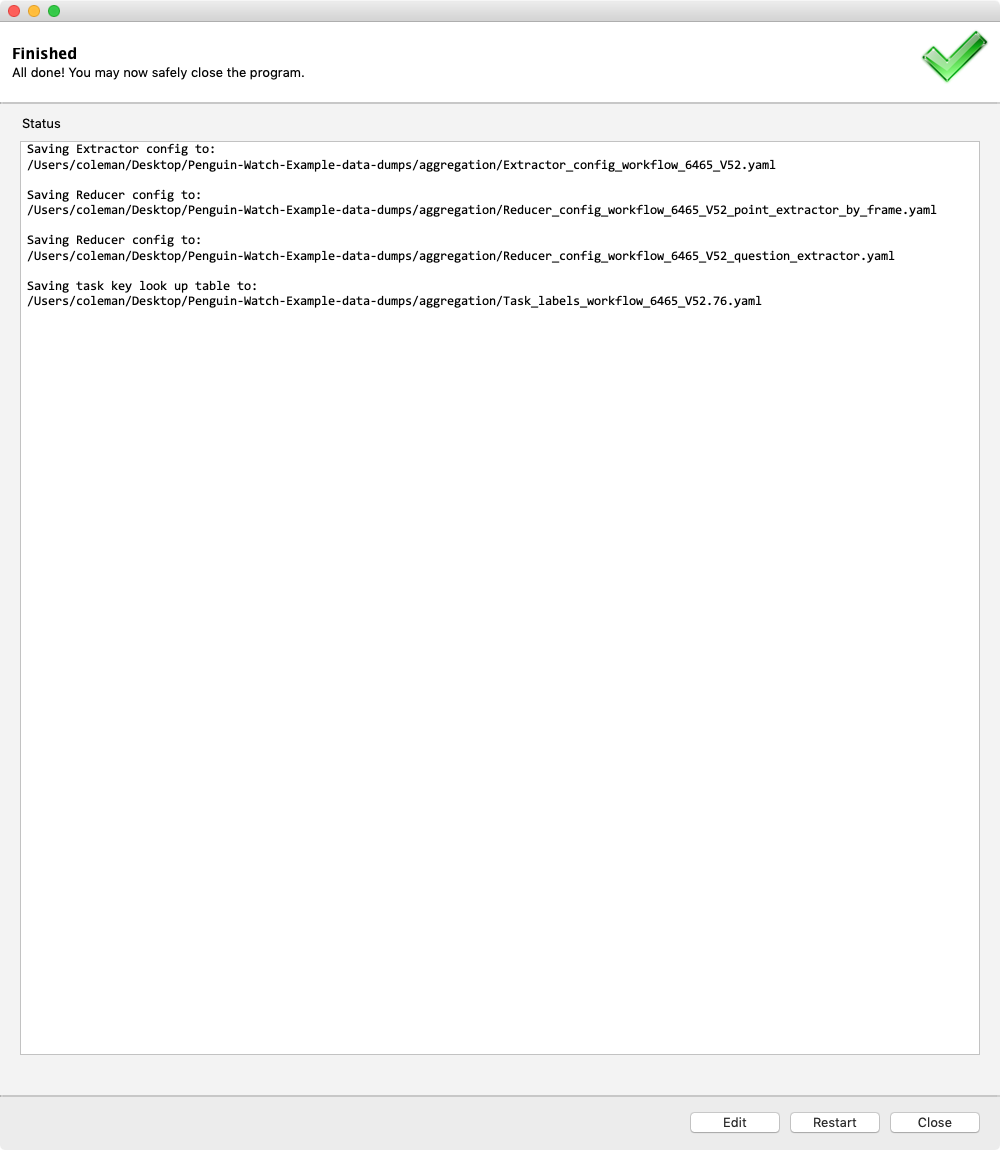
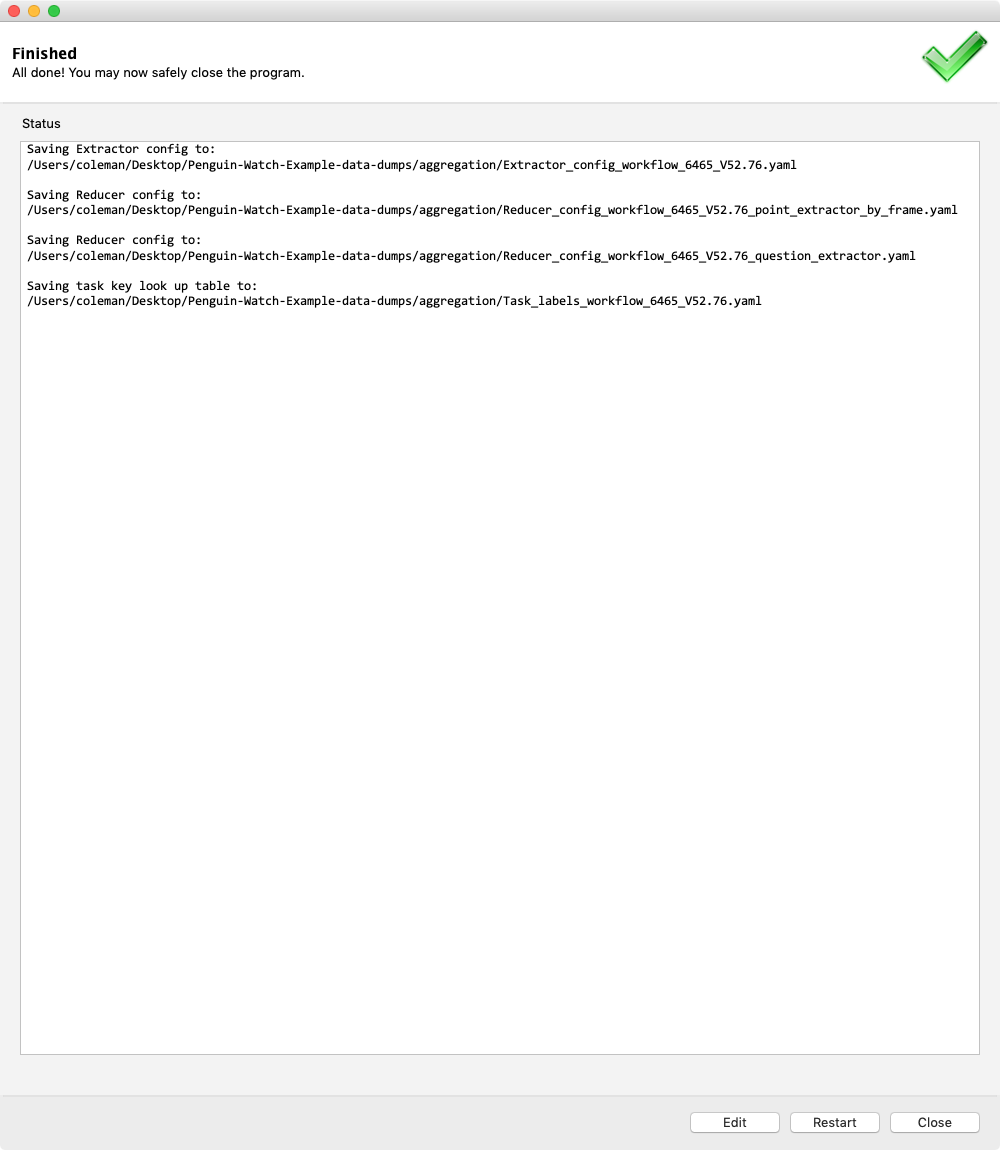
Update workflow auto-config script for new data export format
The `workflow_contents` csv files are no longer available and the 
`strings` column from it has been moved to the workflow export file.  
This stream-lines much of the configuration code since it only has to 
deal with one csv file.

The documentation and examples have been updated to reflect these 
changes.

Changed region(s): [[0.744, 0.1826, 0.899, 0.2435], [0.744, 0.1217, 0.806, 0.1522]]

diff --git a/panoptes_aggregation/scripts/config_workflow_panoptes.py b/panoptes_aggregation/scripts/config_workflow_panoptes.py
@@ -21,10 +21,8 @@ def config_workflow(
             workflow_csv,
             workflow_id,
             version=None,
-            keywords={},
-            workflow_content=None,
             minor_version=None,
-            language='en',
+            keywords={},
             output_dir=None,
             verbose=False
         ):
@@ -32,39 +30,46 @@ def config_workflow(
     with workflow_csv as workflow_csv_in:
         workflows = pandas.read_csv(workflow_csv_in, encoding='utf-8')
 
+    wdx = (workflows.workflow_id == workflow_id)
     if version is None:
-        version = workflows[workflows.workflow_id == workflow_id].version.max()
+        version = workflows[wdx].version.max()
         if verbose:
             warnings.warn('No major workflow version was specified, defaulting to version {0}'.format(version))
 
-    wdx = (workflows.workflow_id == workflow_id) & (workflows.version == version)
-    assert (wdx.sum() > 0), 'workflow ID and workflow major version combination does not exist'
-    assert (wdx.sum() == 1), 'workflow ID and workflow major version combination is not unique'
+    wdx &= (workflows.version == version)
+    if minor_version is None:
+        minor_version = workflows[wdx].minor_version.max()
+        if verbose:
+            warnings.warn('No minor workflow version was specified, defaulting to version {0}'.format(minor_version))
+
+    wdx &= (workflows.minor_version == minor_version)
+    assert (wdx.sum() > 0), 'workflow ID and workflow version combination does not exist'
+    assert (wdx.sum() == 1), 'workflow ID and workflow version combination is not unique'
     workflow = workflows[wdx].iloc[0]
     workflow_tasks = json.loads(workflow.tasks)
     extractor_config = workflow_extractor_config(workflow_tasks, keywords=keywords)
-    workflow_version = '{0}'.format(version)
-    if minor_version is not None:
-        workflow_version = '{0}.{1}'.format(version, minor_version)
+    workflow_version = '{0}.{1}'.format(version, minor_version)
     config = {
         'workflow_id': workflow_id,
         'workflow_version': workflow_version,
         'extractor_config': extractor_config
     }
-    filename = 'Extractor_config_workflow_{0}_V{1}.yaml'.format(workflow_id, version)
+    # configure the extractors
+    filename = 'Extractor_config_workflow_{0}_V{1}.yaml'.format(workflow_id, workflow_version)
     if output_dir is not None:
         filename = os.path.join(output_dir, filename)
     with open(filename, 'w', encoding='utf-8') as stream:
         yaml.dump(config, stream=stream, default_flow_style=False, indent=4)
         print('Saving Extractor config to:\n{0}'.format(filename))
         print()
+    # configure the reducers
     reducer_config_list = workflow_reducer_config(extractor_config)
     task_set = set({})
     for extractor, reducer in zip(sorted(extractor_config.keys()), reducer_config_list):
         reducer_config = {
             'reducer_config': reducer
         }
-        filename = 'Reducer_config_workflow_{0}_V{1}_{2}.yaml'.format(workflow_id, version, extractor)
+        filename = 'Reducer_config_workflow_{0}_V{1}_{2}.yaml'.format(workflow_id, workflow_version, extractor)
         if output_dir is not None:
             filename = os.path.join(output_dir, filename)
         with open(filename, 'w', encoding='utf-8') as stream:
@@ -73,26 +78,13 @@ def config_workflow(
             print()
         for task in extractor_config[extractor]:
             task_set.add(task['task'])
-    if workflow_content is not None:
-        workflow_content = get_file_instance(workflow_content)
-        with workflow_content as workflow_content_in:
-            contents = pandas.read_csv(workflow_content_in, encoding='utf-8')
-        if minor_version is None:
-            minor_version = contents[contents.workflow_id == workflow_id].version.max()
-            if verbose:
-                warnings.warn('No minor workflow version was specified, defaulting to version {0}'.format(minor_version))
-        cdx = (contents.workflow_id == workflow_id) & (contents.version == minor_version)
-        if cdx.sum() == 0:
-            raise IndexError('workflow ID and workflow minor version combination does not exist')
-        if cdx.sum() > 1:
-            raise IndexError('workflow ID and workflow mainor version combination is not unique')
-        content = contents[cdx].iloc[0]
-        strings = eval(content.strings)
-        stirngs_extract = {key: value for key, value in strings.items() for task in task_set if (key.startswith(task) and ('help' not in key))}
-        filename = 'Task_labels_workflow_{0}_V{1}.{2}.yaml'.format(workflow_id, version, minor_version)
-        if output_dir is not None:
-            filename = os.path.join(output_dir, filename)
-        with open(filename, 'w', encoding='utf-8') as stream:
-            yaml.dump(stirngs_extract, stream=stream, default_flow_style=False, indent=4)
-            print('Saving task key look up table to:\n{0}'.format(filename))
+    # make the task string look up table
+    strings = eval(workflow.strings)
+    stirngs_extract = {key: value for key, value in strings.items() for task in task_set if (key.startswith(task) and ('help' not in key))}
+    filename = 'Task_labels_workflow_{0}_V{1}.yaml'.format(workflow_id, workflow_version)
+    if output_dir is not None:
+        filename = os.path.join(output_dir, filename)
+    with open(filename, 'w', encoding='utf-8') as stream:
+        yaml.dump(stirngs_extract, stream=stream, default_flow_style=False, indent=4)
+        print('Saving task key look up table to:\n{0}'.format(filename))
     return config

diff --git a/panoptes_aggregation/scripts/aggregation_parser.py b/panoptes_aggregation/scripts/aggregation_parser.py
@@ -24,15 +24,15 @@ def main():
     )
     config_load_files = config_parser.add_argument_group(
         'Load Workflow Files',
-        'These files can be exported from a project\'s Data Export tab',
+        'This file can be exported from a project\'s Data Export tab',
         gooey_options={
             'show_border': False,
             'columns': 1
         }
     )
     config_numbers = config_parser.add_argument_group(
-        'ID, version numbers, and language',
-        'Enter the workflow ID, major version number, minor version number, and language',
+        'Workflow ID and version numbers',
+        'Enter the workflow ID, major version number, and minor version number',
         gooey_options={
             'show_border': False,
             'columns': 1
@@ -67,13 +67,6 @@ def main():
         type=argparse.FileType('r', encoding='utf-8'),
         widget='FileChooser'
     )
-    config_load_files.add_argument(
-        "-c",
-        "--workflow_content",
-        help="The (optional) workflow content file can be provided to create a lookup table for task/answer/tool numbers\nto the text used on the workflow.",
-        type=argparse.FileType('r', encoding='utf-8'),
-        widget='FileChooser'
-    )
     config_save_files.add_argument(
         "-d",
         "--dir",
@@ -98,13 +91,6 @@ def main():
         "--minor_version",
         help="The minor workflow version used to create the lookup table for the workflow content",
         type=int
-    )
-    config_numbers.add_argument(
-        "-l",
-        "--language",
-        help="The language to use for the workflow content",
-        type=str,
-        default='en'
     )
     config_keywords.add_argument(
         "-k",
@@ -267,10 +253,8 @@ def main():
             args.workflow_csv,
             args.workflow_id,
             version=args.version,
-            keywords=args.keywords,
-            workflow_content=args.workflow_content,
             minor_version=args.minor_version,
-            language=args.language,
+            keywords=args.keywords,
             output_dir=args.dir,
             verbose=args.verbose
         )

diff --git a/Scripts.md b/Scripts.md
@@ -5,13 +5,11 @@ This package comes with several command line scripts for use with the `csv` data
 You will need two to three files from your project for offline use:
  - The classification dump: The `Request new classification export` or `Request new workflow classification export` button from the lab's `Data Export` tab
  - The workflow dump: The `Request new workflow export` button from the lab's `Data Export` tab
- - The workflow contents (optional): The `Request new workflow contents export` button from the lab's `Data Export` tab.  This file is used to make a look up table between the column names used for each task/answer/tool and the original text used for them on the project.
 
 ### Example: Penguin Watch
 Penguin Watch has several workflows, for this example we will look at workflow number 6465 (time lapse cameras) and version `52.76`.  The downloaded files for this project are:
  - `penguin-watch-workflows.csv`: the workflow file (contains the major version number as a column)
- - `penguin-watch-workflow_contents.csv`: the workflow contents file (contains the minor version number as a column)
- - `time-lapse-cameras-classifications-trim.csv`: the classification file for workflow 6465
+ - `penguin-watch-classifications-trim.csv`: the classification file for workflow 6465
 
 This [zip folder](https://drive.google.com/file/d/177uXdt3IRIOc2b42UvG4EdNJv973RCtS/view?usp=sharing) contains these files.
 
@@ -42,9 +40,8 @@ optional arguments:
 Use the command line tool to make configuration `yaml` files that are used to set up the extractors and reducers.  These base files will use the default settings for various task types. They can be adjusted if the defaults are not needed (e.g. you don't need to extract all the tasks, or you need more control over the reducer's settings).
 
 ```bash
-usage: panoptes_aggregation config [-h] [-c WORKFLOW_CONTENT] [-d DIR]
-                                   [-v VERSION] [-m MINOR_VERSION]
-                                   [-l LANGUAGE] [-k KEYWORDS]
+usage: panoptes_aggregation config [-h] [-d DIR] [-v VERSION]
+                                   [-m MINOR_VERSION] [-k KEYWORDS] [-vv]
                                    workflow_csv workflow_id
 
 Make configuration files for panoptes data extraction and reduction based on a
@@ -54,17 +51,12 @@ optional arguments:
   -h, --help            show this help message and exit
 
 Load Workflow Files:
-  These files can be exported from a project\'s Data Export tab
+  This file can be exported from a project\'s Data Export tab
 
   workflow_csv          The csv file containing the workflow data
-  -c WORKFLOW_CONTENT, --workflow_content WORKFLOW_CONTENT
-                        The (optional) workflow content file can be provided
-                        to create a lookup table for task/answer/tool numbers
-                        to the text used on the workflow.
 
-ID, version numbers, and language:
-  Enter the workflow ID, major version number, minor version number, and
-  language
+Workflow ID and version numbers:
+  Enter the workflow ID, major version number, and minor version number
 
   workflow_id           the workflow ID you would like to extract
   -v VERSION, --version VERSION
@@ -72,8 +64,6 @@ ID, version numbers, and language:
   -m MINOR_VERSION, --minor_version MINOR_VERSION
                         The minor workflow version used to create the lookup
                         table for the workflow content
-  -l LANGUAGE, --language LANGUAGE
-                        The language to use for the workflow content
 
 Other keywords:
   Additional keywords to be passed into the configuration files
@@ -88,17 +78,20 @@ Save Config Files:
   The directory to save the configuration files to
 
   -d DIR, --dir DIR     The directory to save the configuration files to
+
+Other options:
+  -vv, --verbose        increase output verbosity
 ```
 
 ### Example: Penguin Watch
 ```bash
-panoptes_aggregation config penguin-watch-workflows.csv 6465 -v 52 -c penguin-watch-workflow_contents.csv -m 76
+panoptes_aggregation config penguin-watch-workflows.csv 6465 -v 52 -m 76
 ```
 
 This creates four files:
- - `Extractor_config_workflow_6465_V52.yaml`: The configuration for the extractor code
- - `Reducer_config_workflow_6465_V52_point_extractor_by_frame.yaml`: The configuration for the reducer used for the point task
- - `Reducer_config_workflow_6465_V52_question_extractor.yaml`: The configuration for the reducer used for the question task
+ - `Extractor_config_workflow_6465_V52.76.yaml`: The configuration for the extractor code
+ - `Reducer_config_workflow_6465_V52.76_point_extractor_by_frame.yaml`: The configuration for the reducer used for the point task
+ - `Reducer_config_workflow_6465_V52.76_question_extractor.yaml`: The configuration for the reducer used for the question task
  - `Task_labels_workflow_6465_V52.76.yaml`: A lookup table to translate the column names used in the extractor/reducer output files into the text originally used on the workflow.
 
 ---
@@ -135,7 +128,7 @@ Other options:
 ```
 
 ### Example: Penguin Watch
-Before starting let's take a closer look at the extractor configuration file `Extractor_config_workflow_6465_V52.yaml`:
+Before starting let's take a closer look at the extractor configuration file `Extractor_config_workflow_6465_V52.76.yaml`:
 ```yaml
 extractor_config:
     point_extractor_by_frame:
@@ -159,7 +152,7 @@ This shows the basic setup for what extractor will be used for each task.  From 
 Note: If a workflow contains any task types that don't have extractors or reducers they will not show up in this config file.
 
 ```bash
-panoptes_aggregation extract time-lapse-cameras-classifications-trim.csv Extractor_config_workflow_6465_V52.yaml -o example
+panoptes_aggregation extract penguin-watch-classifications-trim.csv Extractor_config_workflow_6465_V52.76.yaml -o example
 ```
 
 This creates two `csv` files (one for each extractor listed in the config file):
@@ -202,7 +195,7 @@ Reducer options:
 ```
 
 ### Example: Penguin Watch
-For this example we will do the point clustering for the task `T0`.  Let's take a look at the default config file for that reducer `Reducer_config_workflow_6465_V52_point_extractor_by_frame.yaml`:
+For this example we will do the point clustering for the task `T0`.  Let's take a look at the default config file for that reducer `Reducer_config_workflow_6465_V52.76_point_extractor_by_frame.yaml`:
 ```yaml
 reducer_config:
     point_reducer_dbscan:
@@ -235,7 +228,7 @@ reducer_config:
 
 Now that it is set up we can run:
 ```bash
-panoptes_aggregation reduce point_extractor_by_frame_example.csv Reducer_config_workflow_6465_V52_point_extractor_by_frame.yaml -o example
+panoptes_aggregation reduce point_extractor_by_frame_example.csv Reducer_config_workflow_6465_V52.76_point_extractor_by_frame.yaml -o example
 ```
 
 This will create one file:

diff --git a/GUI.md b/GUI.md
@@ -10,8 +10,7 @@ You will need two to three files from your project for offline use:
 ### Example: Penguin Watch
 Penguin Watch has several workflows, for this example we will look at workflow number 6465 (time lapse cameras) and version `52.76`.  The downloaded files for this project are:
  - `penguin-watch-workflows.csv`: the workflow file (contains the major version number as a column)
- - `penguin-watch-workflow_contents.csv`: the workflow contents file (contains the minor version number as a column)
- - `time-lapse-cameras-classifications-trim.csv`: the classification file for workflow 6465
+ - `penguin-watch-classifications-trim.csv`: the classification file for workflow 6465
 
 This [zip folder](https://drive.google.com/file/d/177uXdt3IRIOc2b42UvG4EdNJv973RCtS/view?usp=sharing) contains these files.
 
@@ -36,9 +35,9 @@ We want to configure files for workflow 6465 v52.76.  Enter this information int
 ![GUI config](_static/gui_config_output.png)
 
 We can see this created four `yaml` files in our chosen output directory:
- - `Extractor_config_workflow_6465_V52.yaml`: The configuration for the extractor code
- - `Reducer_config_workflow_6465_V52_point_extractor_by_frame.yaml`: The configuration for the reducer used for the point task
- - `Reducer_config_workflow_6465_V52_question_extractor.yaml`: The configuration for the reducer used for the question task
+ - `Extractor_config_workflow_6465_V52.76.yaml`: The configuration for the extractor code
+ - `Reducer_config_workflow_6465_V52.76_point_extractor_by_frame.yaml`: The configuration for the reducer used for the point task
+ - `Reducer_config_workflow_6465_V52.76_question_extractor.yaml`: The configuration for the reducer used for the question task
  - `Task_labels_workflow_6465_V52.76.yaml`: A lookup table to translate the column names used in the extractor/reducer output files into the text originally used on the workflow.
 
 Click the `Edit` button to go back to the previous screen.
@@ -94,7 +93,7 @@ Note: this only works for some task types, see the [documentation](https://aggre
 The `reduce` tab will reduce the extracts by `subject_id` into a consensus aggregation.
 
 ### Example: Penguin Watch
-For this example we will do the point clustering for the task `T0`.  Let's take a look at the default config file for that reducer `Reducer_config_workflow_6465_V52_point_extractor_by_frame.yaml`:
+For this example we will do the point clustering for the task `T0`.  Let's take a look at the default config file for that reducer `Reducer_config_workflow_6465_V52.76_point_extractor_by_frame.yaml`:
 ```yaml
 reducer_config:
     point_reducer_dbscan:
